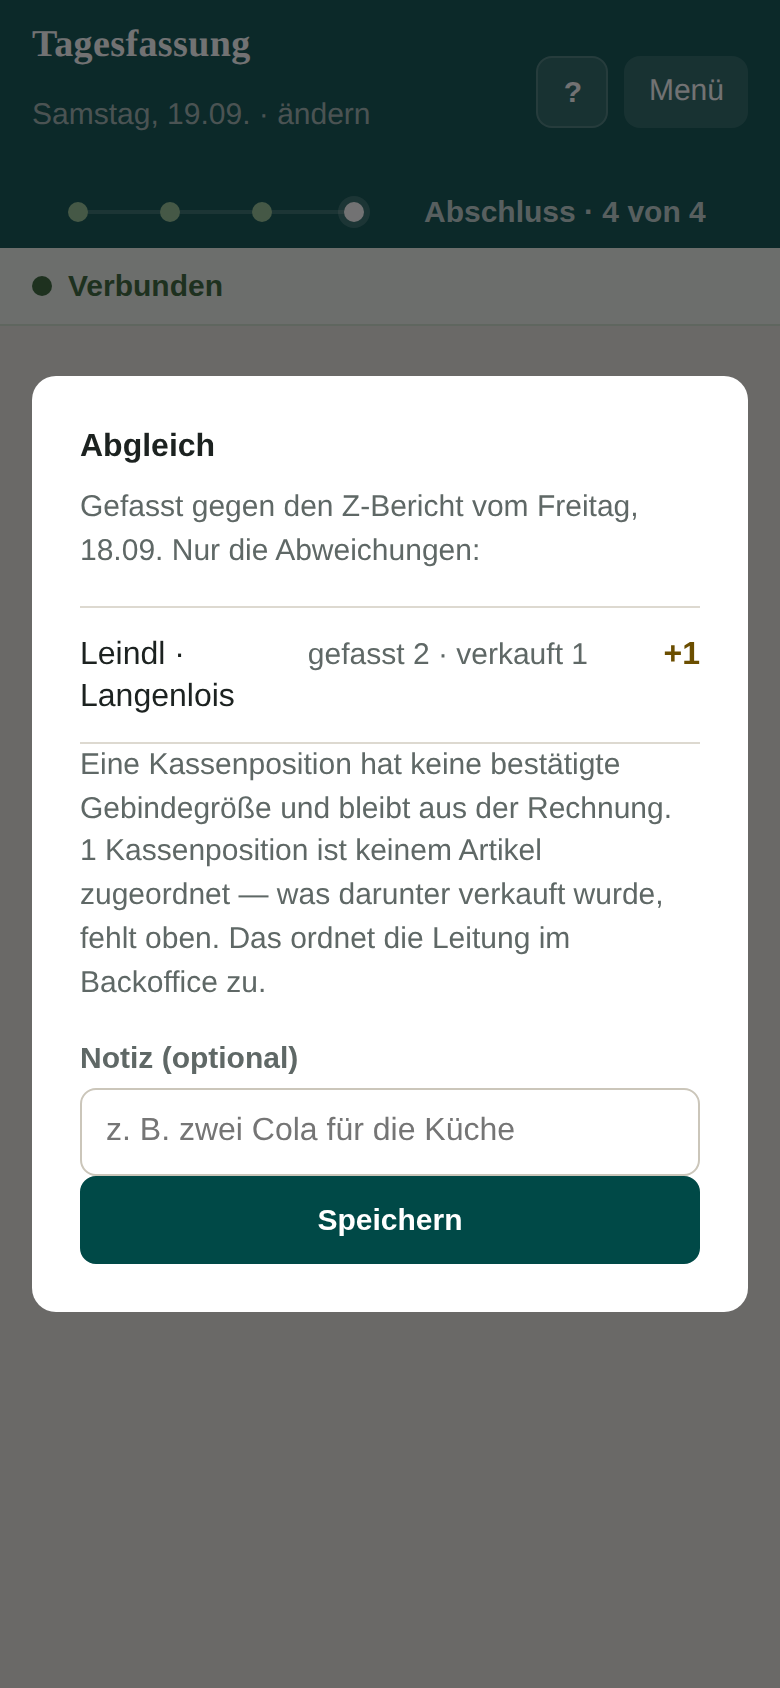
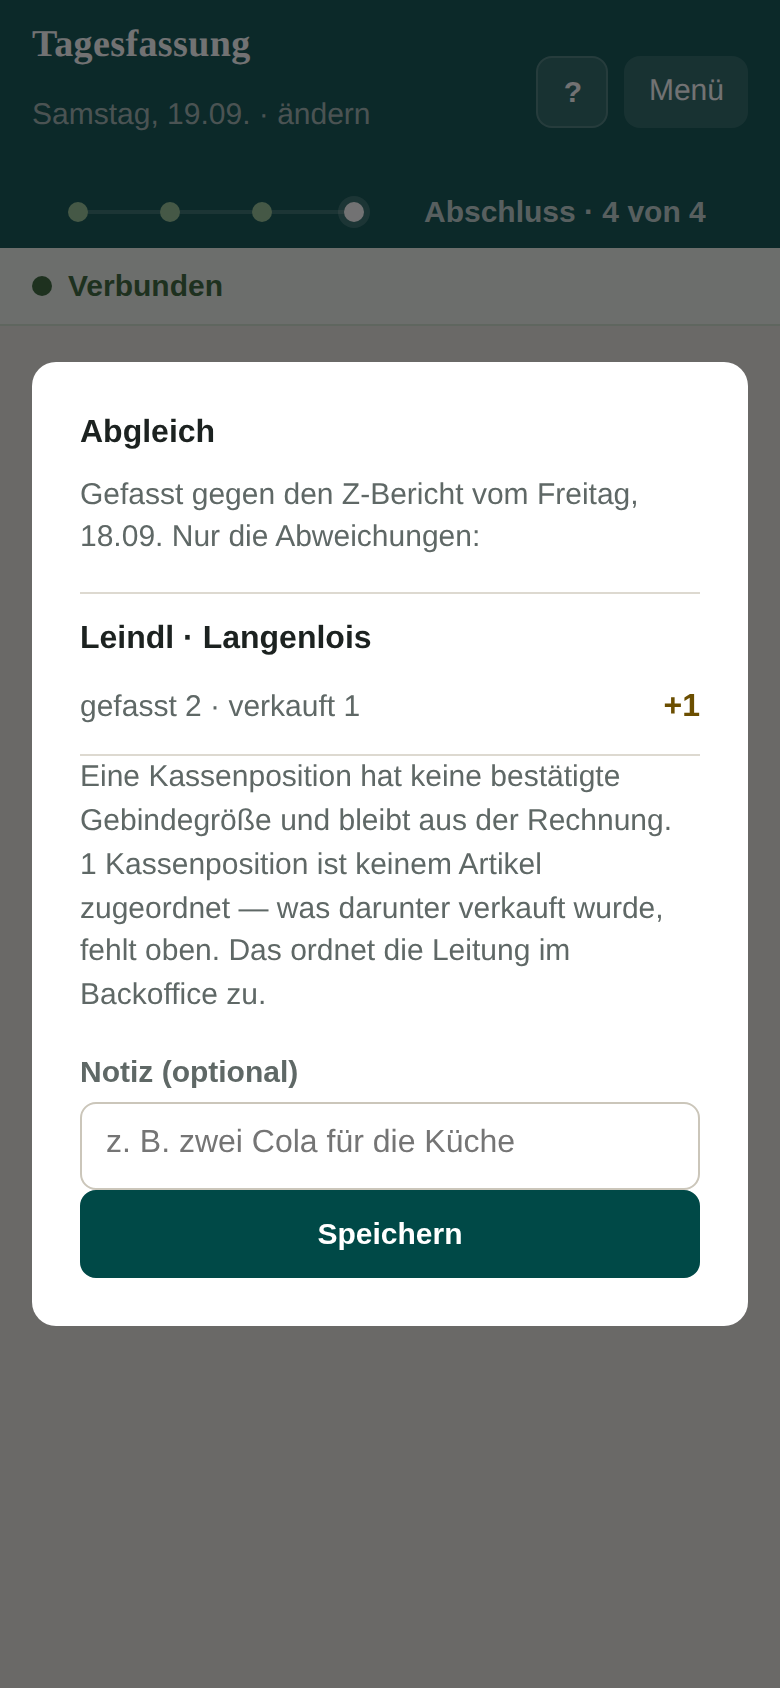
[Runde 16] Sechste Jagd: Kennung am Menschen, Name auf eigener Zeile, Ursachen im Backoffice getrennt
B · Die Dublette am Team-Formular war verschoben, nicht geschlossen.
  Die Kennung hing am FORMULARINHALT (Name + Code + Rolle). Zwei Wege,
  beide am echten Worker nachgestellt: (1) Erster Anlauf kommt an, die
  Antwort geht verloren; die Leitung wuerfelt daneben einen neuen Code —
  `code` ist anders, also neue Kennung. Ergebnis: zwei aktive Zeilen,
  gleicher Name, ZWEI gueltige Anmeldecodes. Danach wirkt "Sperren"
  nicht mehr: gesperrt wird eine der beiden gleich aussehenden Zeilen,
  der Mensch kommt mit dem anderen Code weiter herein. Der Worker
  schickt sogar dorthin — auf denselben Code antwortet er mit 409 und
  dem Rat, einen anderen zu waehlen. (2) Speichern glueckt, hole() laeuft
  in die Frist, LEUTE bleibt alt, die Kennung war auf null gesetzt.
  Die Kennung haengt jetzt am NAMEN und ueberlebt den geglueckten
  Anlauf: In dieser Sitzung bekommt derselbe Mensch dieselbe Zeile.

B · 390 px: Die Wortleiter war umgezogen und traf jetzt den
  Artikelnamen. `.nm` hatte `flex:1` (= flex-basis:0) und schrumpfte auf
  60-102 px, waehrend "gefasst 12,5 · verkauft 13,8" (nowrap) 182 px
  bekam — ausgerechnet das Einzige, das im Keller sagt, WELCHER Wein die
  Luecke hat, war das Kleinste im Fenster. Die fuenfte Jagd hat dieselbe
  Diagnose gestellt und nur auf den Vorbehalt angewandt. Der Name hat
  jetzt seine eigene, volle Zeile.

B · Das Backoffice nannte die falsche Ursache. `flaschen()`
  unterscheidet seit je "keine Menge im Kassennamen" von "Groesse nicht
[…]

diff --git a/public/leitung.html b/public/leitung.html
@@ -1426,8 +1426,13 @@ function zuordnung(pos){
 /* ════════════ 6 · Abgleich Verkauf ↔ Fassung ════════════ */
 /* Warum eine Zeile keinen Befund bekommt — an einer Stelle, damit
    Tabelle, Mittagsblick und CSV denselben Satz sagen. */
+/* „menge" ist neu (sechste Jagd Runde 16): Im Kassennamen steht keine
+   Menge („Aperol Spritz 1 Glas"). Das fehlt der KASSE, nicht dem
+   Backoffice — „Größe fehlt" schickte die Leitung dort vergeblich
+   suchen. */
 const UNKLAR_GRUND={
   groesse:     "Größe fehlt",
+  menge:       "keine Menge im Kassennamen",
   keinbericht: "kein Z-Bericht im Zeitraum"
 };
 const unklarSatz = g => "kein Abgleich möglich — " + (UNKLAR_GRUND[g] || "Verkauf nicht bestimmbar");
@@ -1445,8 +1450,25 @@ const unklarSatz = g => "kein Abgleich möglich — " + (UNKLAR_GRUND[g] || "Ver
    ein anderer schon: dann bleibt die Differenz stehen — mit Vorbehalt.
    Eine halbe Wahrheit, die sich als ganze ausgibt, ist der teuerste Fall;
    eine Differenz MIT Vorbehalt ist besser als gar keine. */
-const vorbehaltSatz = v =>
-  v.ohne+" von "+v.gesamt+" Positionen ohne Größe — die Differenz ist unvollständig";
+/* BERICHTIGUNG (sechste Jagd Runde 16 · B): Hier stand für BEIDE
+   Ursachen „ohne Größe". `flaschen()` unterscheidet sie sauber
+   (`fehlt:"ausschank"` — keine Menge im Kassennamen; `fehlt:"gebinde"` —
+   keine bestätigte Gebindegröße), `merkeOhneGroesse()` warf sie wieder
+   in einen Topf. In Bericht 37 haben 26 von 48 Positionen keine Menge im
+   Namen — der häufigere der beiden Fälle. Die Leitung las „ohne Größe",
+   ging nach „Verkauf ↔ Fassung" und fand dort nichts zu bestätigen: Was
+   fehlt, fehlt der KASSE, nicht dem Backoffice. Dieselbe Falschzuweisung
+   hat die dritte Jagd in der App beseitigt (`ohneMenge` gegen
+   `ohneGebinde` in `abgleichZeilen`); auf dieser Seite desselben
+   Duplikats stand sie unverändert. */
+const vorbehaltSatz = v => {
+  const teile=[];
+  if(v.gebinde)teile.push(v.gebinde+" ohne bestätigte Größe");
+  if(v.menge)teile.push(v.menge+" ohne Menge im Kassennamen");
+  return (v.ohne+" von "+v.gesamt+" Positionen nicht gerechnet"
+    + (teile.length?" ("+teile.join(", ")+")":"")
+    + " — die Differenz ist unvollständig");
+};
 
 /* Der Befund einer GERECHNETEN Zeile — an einer Stelle für Tabelle und CSV.
    Warum die Fallunterscheidung: Eine Zeile mit Vorbehalt sagte bis v30 bei
@@ -1502,10 +1524,17 @@ function abgleich(tag, spanne){
      sofort gesetzt und löschte rückwirkend einen schon gerechneten
      Verkauf (Spritzerwein: 1,80 Fl. gerechnet, Entnahme 9 → die Zeile
      sagte „kein Abgleich möglich" statt +7,2). */
-  const posZahl={}, posOhne={};
-  const zaehlePos=(id,gerechnet)=>{ if(!id) return;
+  /* `grund` ist neu (sechste Jagd Runde 16): "ausschank" heisst, im
+     Kassennamen steht keine Menge — das kann die Leitung nicht beheben.
+     "gebinde" heisst, die Groesse ist nicht bestaetigt — das kann sie.
+     Zwei verschiedene Saetze, deshalb zwei Zaehler. */
+  const posZahl={}, posOhne={}, posMenge={}, posGebinde={};
+  const zaehlePos=(id,gerechnet,grund)=>{ if(!id) return;
     posZahl[id]=(posZahl[id]||0)+1;
-    if(!gerechnet) posOhne[id]=(posOhne[id]||0)+1; };
+    if(gerechnet) return;
+    posOhne[id]=(posOhne[id]||0)+1;
+    if(grund==="ausschank") posMenge[id]=(posMenge[id]||0)+1;
+    else posGebinde[id]=(posGebinde[id]||0)+1; };
   /* Dritter Zustand neben „zugeordnet" und „offen": zugeordnet, aber die
      Größe ist nicht bestätigt. Solche Positionen gehen weder in `verk`
      noch in die Differenz ein — sonst sähe eine fehlende Zahl aus wie
@@ -1538,7 +1567,7 @@ function abgleich(tag, spanne){
           merkeOhneGroesse(p, r[luecke].id, {fehlt:"gebinde", aus:r[luecke].ml, geb:gebs[luecke]}, true);
           /* Die ganze Position bleibt draußen — also fehlt der Verkauf
              JEDES Bestandteils, nicht nur der des einen mit der Lücke. */
-          r.forEach(x=>zaehlePos(x.id,false));
+          r.forEach(x=>zaehlePos(x.id,false,"gebinde"));
           return;
         }
         r.forEach((x,i)=>{ verk[x.id]=(verk[x.id]||0)+(+p.anzahl||0)*x.ml/gebs[i].ml;
@@ -1549,7 +1578,7 @@ function abgleich(tag, spanne){
       if(zu.status==="offen"){ if(!offen.some(o=>o.name===p.name)) offen.push(p); return; }
       if(zu.status==="ignoriert") return;
       const f=flaschen(p, zu.id);
-      if(!f.ok){ merkeOhneGroesse(p, zu.id, f); zaehlePos(zu.id,false); return; }
+      if(!f.ok){ merkeOhneGroesse(p, zu.id, f); zaehlePos(zu.id,false,f.fehlt); return; }
       verk[zu.id]=(verk[zu.id]||0)+f.fl; zaehlePos(zu.id,true);
     });
   });
@@ -1567,8 +1596,13 @@ function abgleich(tag, spanne){
      mit Vorbehalt. */
   const vorbehalt={};
   Object.keys(posOhne).forEach(id=>{
-    if((posZahl[id]||0)>posOhne[id]) vorbehalt[id]={ohne:posOhne[id], gesamt:posZahl[id]};
-    else nichtRechenbar(id,"groesse");
+    if((posZahl[id]||0)>posOhne[id])
+      vorbehalt[id]={ohne:posOhne[id], gesamt:posZahl[id],
+                     menge:posMenge[id]||0, gebinde:posGebinde[id]||0};
+    /* Auch der Grund, aus dem GAR NICHTS rechenbar war, gehoert benannt:
+       „Groesse fehlt" schickt die Leitung ins Backoffice, „Menge fehlt"
+       waere dort vergebliche Arbeit. */
+    else nichtRechenbar(id, (posMenge[id]||0)>=(posOhne[id]||0) ? "menge" : "groesse");
   });
   /* Ohne Z-Bericht ist die Verkaufsseite nicht leer, sondern unbekannt —
      der einzige verbliebene Grund, der einen Artikel ganz stumm stellt.
@@ -2729,9 +2763,11 @@ function vTeam(m){
   $("#nWuerfel").onclick=()=>{ $("#nCode").value=wuerfelPin(); };
 
   let LEUTE=[];
-  /* Der laufende Anlauf am Formular „Aufnehmen oder Code neu setzen" —
-     siehe die Berichtigung weiter unten bei `#nAdd`. */
-  let nAnlauf=null;
+  /* Wen dieses Fenster in dieser Sitzung schon angelegt hat: Name (klein
+     geschrieben) → Kennung. Siehe die Berichtigung weiter unten bei
+     `#nAdd` — die Kennung haengt am MENSCHEN, nicht am Formularinhalt
+     und nicht am einzelnen Anlauf. */
+  const nKennung={};
   const male=()=>{
     $("#teamL").innerHTML=LEUTE.length?`<div class="tabhuelle"><table><thead><tr>
       <th>Name</th><th style="width:200px">Rolle</th><th>Sieht</th><th style="width:120px">Zustand</th>
@@ -2843,7 +2879,14 @@ function vTeam(m){
         `<div class="hinweis warn">Der Server antwortet nicht. Mitarbeiter lassen sich
          nur mit Verbindung pflegen.</div>`; return; }
       LEUTE=((r.daten||{}).personen)||[]; male();
-    }catch(e){ $("#teamL").innerHTML=
+    }catch(e){
+      /* Steht schon eine Liste, bleibt sie stehen: Nach einem geglueckten
+         Speichern lief `hole()` in die Frist und ueberschrieb die Liste
+         mit „Keine Verbindung zum Server." — waehrend der Toast daneben
+         „Gespeichert" sagte (sechste Jagd Runde 16 · C). Zwei Saetze zur
+         selben Lage, einer davon falsch. */
+      if(LEUTE.length){ toast("Die Liste ist vielleicht nicht aktuell"); return; }
+      $("#teamL").innerHTML=
       `<div class="hinweis warn">Keine Verbindung zum Server.</div>`; }
   };
   /* BERICHTIGUNG (vierte Jagd Runde 16 · B): Der dritte schreibende Weg
@@ -2886,13 +2929,37 @@ function vTeam(m){
        `ON CONFLICT(id) DO UPDATE` greift. Die Kennung bleibt liegen,
        solange derselbe Mensch mit demselben Code gemeint ist, und faellt
        erst, wenn es angekommen ist. */
-    if(!nAnlauf || nAnlauf.name!==nm || nAnlauf.code!==code || nAnlauf.rolle!==rolle)
-      nAnlauf={name:nm, code, rolle, id:(da?da.id:uuid())};
+    /* BERICHTIGUNG (sechste Jagd Runde 16): Die Kennung hing am
+       FORMULARINHALT — Name, Code und Rolle zusammen. Damit war die
+       Dublette nur verschoben, nicht geschlossen, auf zwei Wegen, beide
+       am echten Worker nachgestellt:
+
+       · Erster Anlauf kommt an, die Antwort geht verloren. Die Leitung
+         greift zum Knopf „Vorschlagen" daneben und probiert es mit einem
+         NEUEN Code — `code` ist anders, also gab es eine neue Kennung.
+         Ergebnis: zwei aktive Zeilen, gleicher Name, ZWEI gueltige
+         Anmeldecodes. Danach wirkt „Sperren" nicht mehr: Die Leitung
+         sperrt eine der beiden gleich aussehenden Zeilen, und der Mensch
+         kommt mit dem anderen Code weiter herein. Der Worker schickt sie
+         sogar dorthin — auf denselben Code antwortet er mit 409 und dem
+         Rat, einen anderen zu waehlen.
+       · Speichern glueckt, `hole()` laeuft danach in die Frist. `LEUTE`
+         bleibt alt, die Kennung war auf `null` gesetzt — wer denselben
+         Menschen noch einmal tippt, legt ihn ein zweites Mal an.
+
+       Gemeinsame Wurzel: Sobald `LEUTE` veraltet ist — und genau dann
+       braucht man die Kennung —, kann der Client nicht mehr wissen, ob
+       er schon geschrieben hat. Sie haengt deshalb jetzt am NAMEN und
+       ueberlebt den geglueckten Anlauf: In dieser Sitzung bekommt
+       derselbe Mensch dieselbe Zeile, was immer dazwischen passiert. */
+    const schl=nm.toLowerCase();
+    if(da)nKennung[schl]=da.id;
+    else if(!nKennung[schl])nKennung[schl]=uuid();
     const b=$("#nAdd"); b.disabled=true; const wort=b.textContent;
     b.textContent="speichert \u2026";
-    const gut=await sende({id:nAnlauf.id, name:nm, rolle, code, aktiv:1});
+    const gut=await sende({id:nKennung[schl], name:nm, rolle, code, aktiv:1});
     b.disabled=false; b.textContent=wort;
-    if(gut){ nAnlauf=null; $("#nName").value=""; $("#nCode").value=""; }
+    if(gut){ $("#nName").value=""; $("#nCode").value=""; }
   };
   hole();
 }

diff --git a/public/index.html b/public/index.html
@@ -360,7 +360,17 @@ header :focus-visible,.foot :focus-visible{outline-color:var(--fg-on-dark)}
    „unvollst/ändig"), 158 px hoch (fuenfte Jagd Runde 16 · B, gemessen). */
 .abglz{display:flex;flex-wrap:wrap;align-items:baseline;gap:var(--space-3);
   padding:var(--space-3) 0;border-bottom:1px solid var(--border)}
-.abglz .nm{flex:1;min-width:0}
+/* BERICHTIGUNG (sechste Jagd Runde 16 · B): `.nm` hatte `flex:1` und
+   damit `flex-basis:0` — es schrumpfte bei 390 px auf 60–102 px,
+   waehrend „gefasst 12,5 · verkauft 13,8" (nowrap) 182 px bekam. Der
+   Artikelname stand dann als 7-zeilige Leiter da: ausgerechnet das
+   Einzige, das im Keller sagt, WELCHER Wein die Luecke hat, war das
+   Kleinste im Fenster. Die fuenfte Jagd hat dieselbe Diagnose fuer den
+   Vorbehalt gestellt und nur dort angewandt.
+   Der Name bekommt jetzt seine eigene, volle Zeile — darunter die
+   Zahlen, darunter der Vorbehalt. */
+.abglz .nm{flex-basis:100%;min-width:0;font-weight:var(--weight-medium)}
+.abglz .za{flex:1;min-width:0}
 .abglz .za{font-variant-numeric:tabular-nums;white-space:nowrap;
   font-size:var(--text-sm);color:var(--fg-muted)}
 .abglz .df{font-variant-numeric:tabular-nums;white-space:nowrap;

diff --git a/public/sw.js b/public/sw.js
@@ -21,7 +21,7 @@
    Sonst behält das iPhone hartnäckig den alten Stand.
    ════════════════════════════════════════════════════════════════════ */
 
-const VERSION = "v47";
+const VERSION = "v48";
 const SPEICHER = "hh-fassung-" + VERSION;
 
 /* Was im Keller verfügbar sein muss. Die Schriften stehen mit drin,
